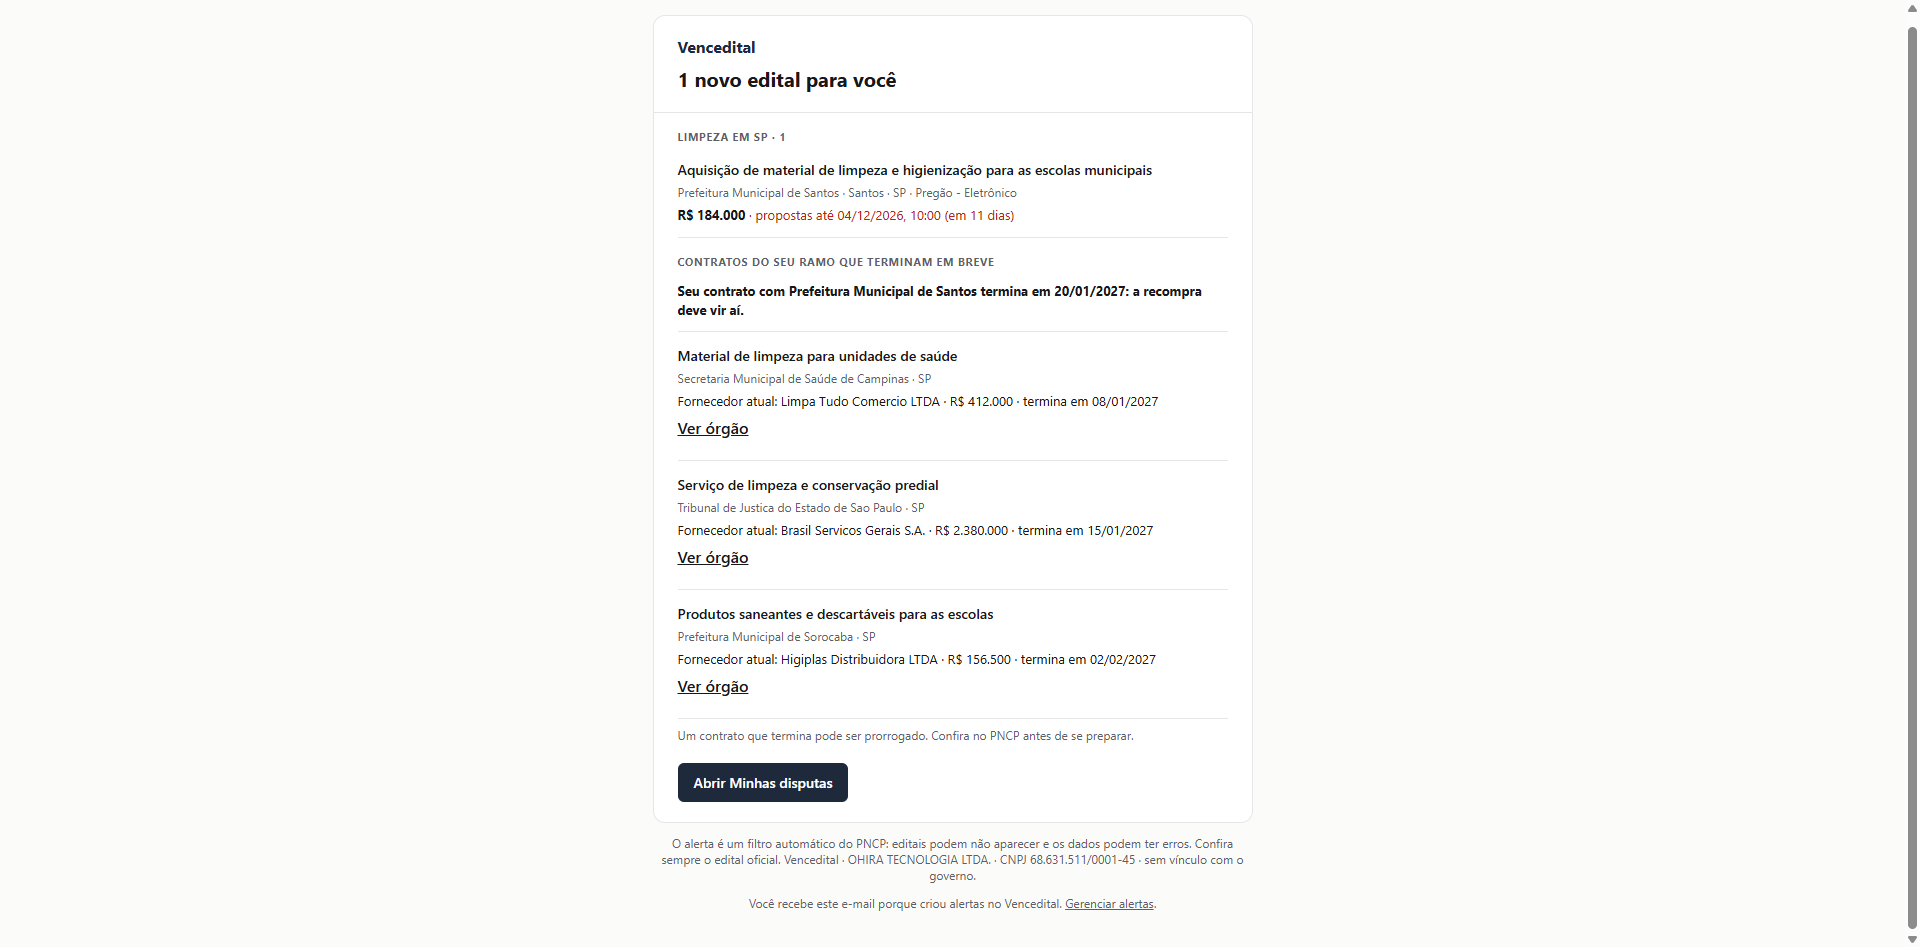
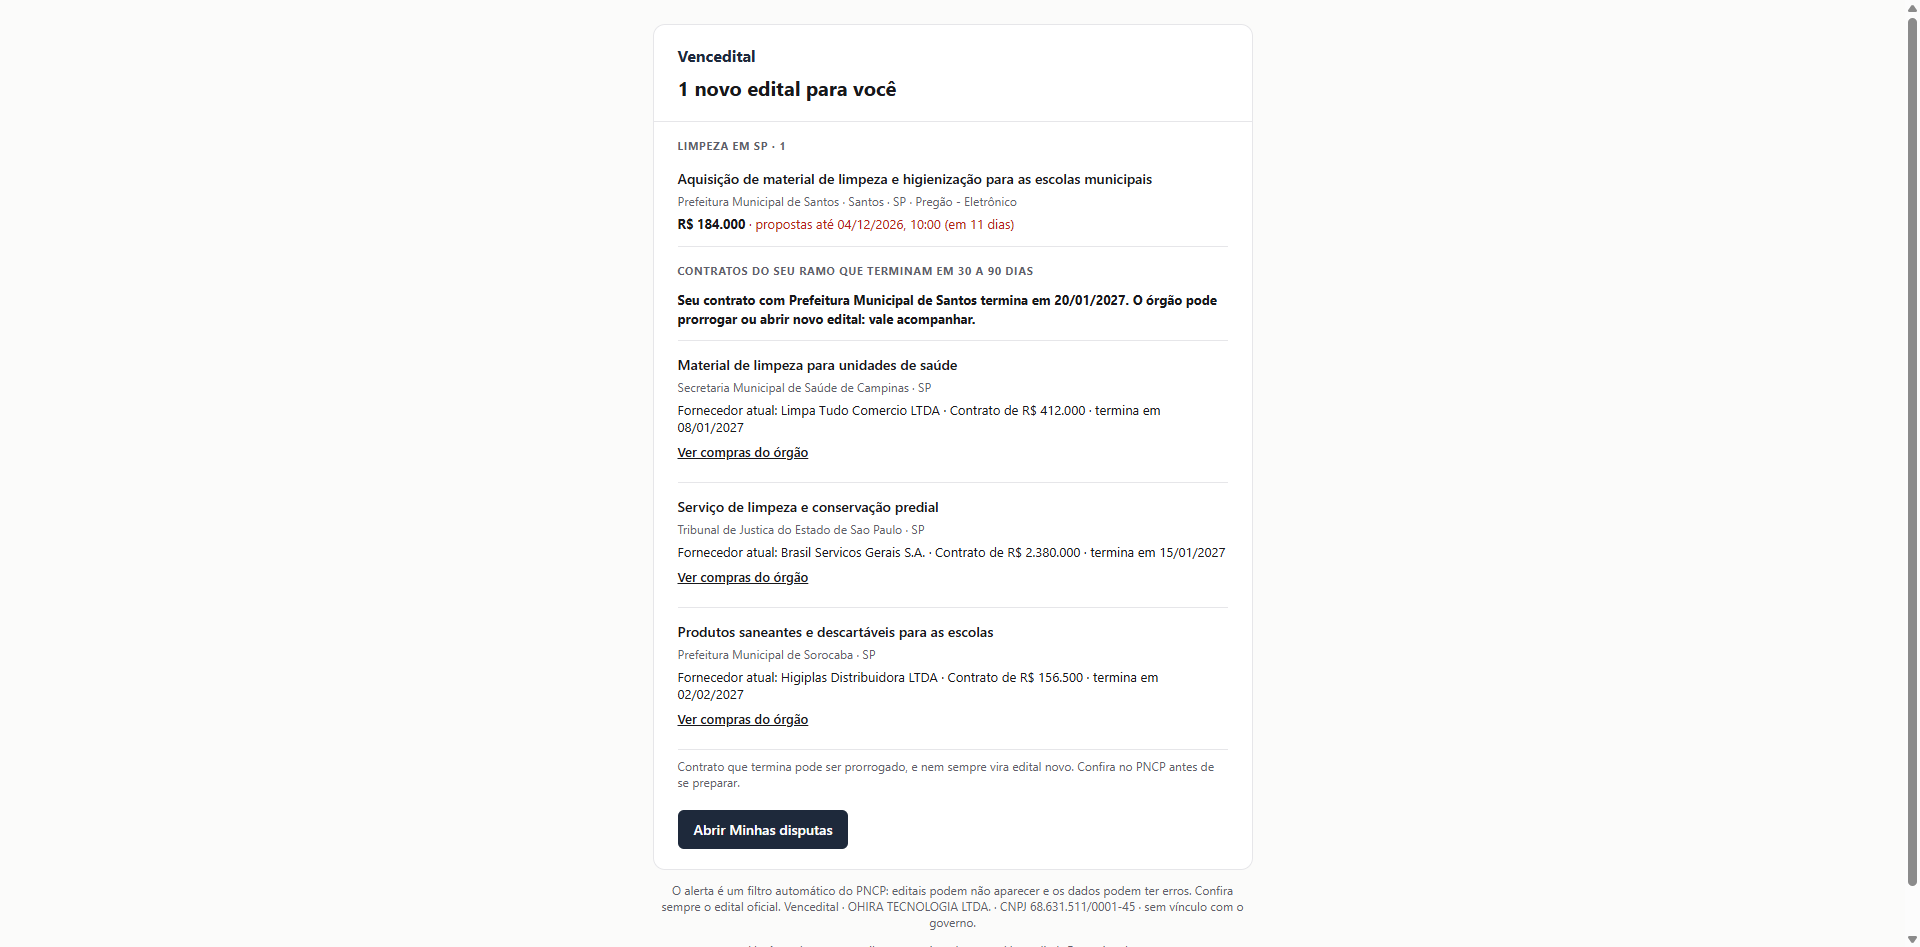
Recompra: Copy review strings (no 'recompra' on screen, no promise of a new edital, caveat on the card too)

Changed region(s): [[0.3438, 0.0306, 0.6562, 0.9799], [0.9688, 0.9493, 1.0, 0.9799]]

diff --git a/src/lib/recompra.ts b/src/lib/recompra.ts
@@ -131,14 +131,14 @@ export async function recomprasEnviadas(db: Consulta, userId: number, hoje: stri
 
 export const vazio = (r: Recompras | null | undefined) => !r || (r.itens.length === 0 && r.proprios.length === 0);
 
-export const TITULO_DA_SECAO = "Contratos do seu ramo que terminam em breve";
-export const AVISO_DA_SECAO = "Um contrato que termina pode ser prorrogado. Confira no PNCP antes de se preparar.";
+export const TITULO_DA_SECAO = "Contratos do seu ramo que terminam em 30 a 90 dias";
+export const AVISO_DA_SECAO = "Contrato que termina pode ser prorrogado, e nem sempre vira edital novo. Confira no PNCP antes de se preparar.";
 
 /** The current supplier, only when it is a company: an individual never appears by name. */
 export const fornecedorDe = (c: Pick<Contrato, "fornecedor" | "fornecedor_ni">): string | null =>
   c.fornecedor && c.fornecedor_ni && /^\d{14}$/.test(c.fornecedor_ni) ? nome(c.fornecedor) : null;
 
-export const linhaDoProprio = (c: Contrato) => `Seu contrato com ${nome(c.orgao)} termina em ${formatDia(c.vigencia_fim)}: a recompra deve vir aí.`;
+export const linhaDoProprio = (c: Contrato) => `Seu contrato com ${nome(c.orgao)} termina em ${formatDia(c.vigencia_fim)}. O órgão pode prorrogar ou abrir novo edital: vale acompanhar.`;
 
 /** The three lines of an item: what, who buys, who has it now and until when. */
 export function partesDoItem(c: Contrato) {
@@ -146,7 +146,7 @@ export function partesDoItem(c: Contrato) {
   return {
     objeto: tituloCurto(frase(c.objeto), 110),
     comprador: [nome(c.orgao), local(c.municipio, c.uf, c.orgao)].filter(Boolean).join(" · "),
-    detalhe: [forn && `Fornecedor atual: ${forn}`, c.valor_global ? formatBRL(c.valor_global) : null, `termina em ${formatDia(c.vigencia_fim)}`].filter(Boolean).join(" · "),
+    detalhe: [forn && `Fornecedor atual: ${forn}`, c.valor_global ? `Contrato de ${formatBRL(c.valor_global)}` : null, `termina em ${formatDia(c.vigencia_fim)}`].filter(Boolean).join(" · "),
   };
 }
 
@@ -176,7 +176,7 @@ export function htmlDaSecao(appUrl: string, r: Recompras, cores: { text: string;
 <div style="color:${cores.text};font-weight:600;font-size:14px;line-height:20px">${escapeHtml(p.objeto)}</div>
 <div style="font-size:12px;color:${cores.muted};margin-top:4px">${escapeHtml(p.comprador)}</div>
 <div style="font-size:13px;margin-top:6px">${escapeHtml(p.detalhe)}</div>
-<div>${link(c, "Ver órgão")}</div>
+<div>${link(c, "Ver compras do órgão")}</div>
 </td></tr>`;
     })
     .join("");

diff --git a/tests/recompra.test.ts b/tests/recompra.test.ts
@@ -39,7 +39,7 @@ describe("linhas da recompra", () => {
     expect({ ...itemDoTeste, detalhe: sp(itemDoTeste.detalhe) }).toEqual({
       objeto: "Material de limpeza para as escolas municipais",
       comprador: "Prefeitura Municipal de Campinas · SP",
-      detalhe: "Fornecedor atual: Limpa Tudo Comercio LTDA · R$ 125.001 · termina em 10/02/2027",
+      detalhe: "Fornecedor atual: Limpa Tudo Comercio LTDA · Contrato de R$ 125.001 · termina em 10/02/2027",
     });
   });
 
@@ -49,11 +49,11 @@ describe("linhas da recompra", () => {
     expect(fornecedorDe(c({ fornecedor: "JOSE DA SILVA", fornecedor_ni: null }))).toBeNull();
     const p = partesDoItem(c({ fornecedor: "JOSE DA SILVA", fornecedor_ni: "12345678901" }));
     expect(p.detalhe).not.toMatch(/jose|silva/i);
-    expect(sp(p.detalhe)).toBe("R$ 125.001 · termina em 10/02/2027");
+    expect(sp(p.detalhe)).toBe("Contrato de R$ 125.001 · termina em 10/02/2027");
   });
 
   it("writes the own-contract line the spec asks for", () => {
-    expect(linhaDoProprio(c())).toBe("Seu contrato com Prefeitura Municipal de Campinas termina em 10/02/2027: a recompra deve vir aí.");
+    expect(linhaDoProprio(c())).toBe("Seu contrato com Prefeitura Municipal de Campinas termina em 10/02/2027. O órgão pode prorrogar ou abrir novo edital: vale acompanhar.");
   });
 });
 
@@ -82,7 +82,7 @@ describe("renderDigest com a seção de recompra", () => {
     expect(vazio({ itens: [], proprios: [] })).toBe(true);
     const so = renderDigest("https://x.test", grupos, new Date("2026-11-22T10:00:00Z"), new Map(), [], { itens: [], proprios: [c()] });
     expect(so.text).toContain("Seu contrato com Prefeitura Municipal de Campinas termina em 10/02/2027");
-    expect(so.html).toContain("a recompra deve vir aí.");
+    expect(so.html).toContain("O órgão pode prorrogar ou abrir novo edital: vale acompanhar.");
   });
 
   it("escapes what comes from the PNCP", () => {

diff --git a/src/app/(app)/painel/page.tsx b/src/app/(app)/painel/page.tsx
@@ -8,7 +8,7 @@ import { ROTULO_DO_SELO, estadoDaCertidao, hojeBR, listarCertidoes, nomeDaCertid
 import { pool, query } from "@/lib/db";
 import { formatBRLCompact, formatInt, frase, horasAtras, nome, prazoTom, tituloCurto } from "@/lib/format";
 import { first } from "@/lib/params";
-import { partesDoItem, recomprasEnviadas, type Contrato } from "@/lib/recompra";
+import { AVISO_DA_SECAO, partesDoItem, recomprasEnviadas, type Contrato } from "@/lib/recompra";
 import { ETAPAS, etapaLabel, listPipeline, vencendo, type Etapa, type PipelineItem } from "@/lib/pipeline";
 import { buildSearch, type EditalResumo } from "@/lib/search";
 import { resumoConfigurado } from "@/lib/summary-tipos";
@@ -234,9 +234,9 @@ function CertidoesCard({ certidoes, itens }: { certidoes: Certidao[]; itens: Pip
 function RecomprasCard({ contratos }: { contratos: Contrato[] }) {
   if (!contratos.length) return null;
   return (
-    <section className="card card-pad stack" style={{ gap: 10 }} aria-label="Recompras à vista">
+    <section className="card card-pad stack" style={{ gap: 10 }} aria-label="Contratos que terminam em breve">
       <div className="card-title">
-        <h2>Recompras à vista</h2>
+        <h2>Contratos que terminam em breve</h2>
       </div>
       <ul className="recompra-lista">
         {contratos.map((c) => {
@@ -252,6 +252,7 @@ function RecomprasCard({ contratos }: { contratos: Contrato[] }) {
           );
         })}
       </ul>
+      <p className="xs subtle">{AVISO_DA_SECAO}</p>
     </section>
   );
 }
